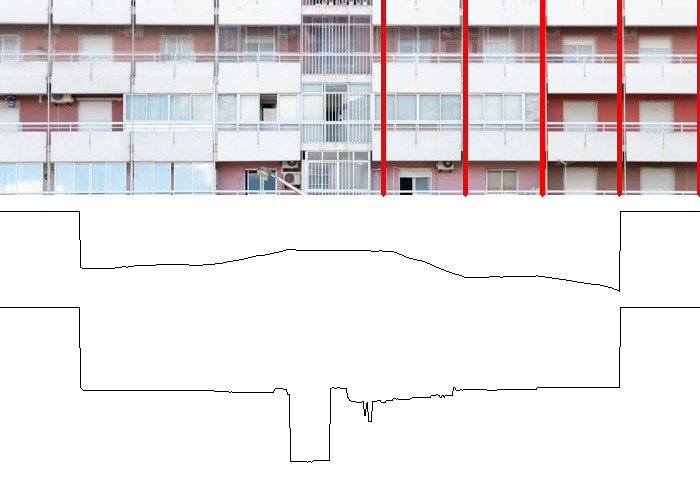
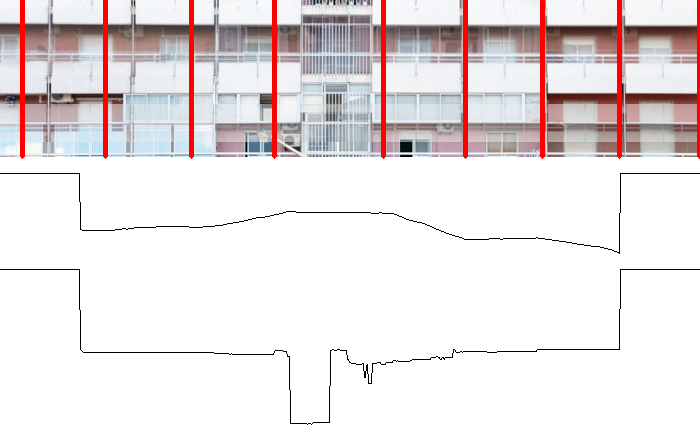
fix many bugs in Test6

diff --git a/Test6/main.cpp b/Test6/main.cpp
@@ -637,7 +637,7 @@ float findNextVerticalSplit(const cv::Mat_<float>& S_max, const cv::Mat_<float>&
 	return S;
 }
 
-void findVerticalSplits(const cv::Mat_<float>& S_max, const cv::Mat_<float>& h_max, int y, int h, float tau_max, int dir, vector<vector<int>>& y_set) {
+void findVerticalSplits(const cv::Mat_<float>& S_max, const cv::Mat_<float>& h_max, int y, int h, float tau_max, int dir, const pair<int, int>& y_range, vector<int>& y_set) {
 	while (y >= 0 && y < S_max.rows) {
 		int next_y;
 		float S = findAdjacentVerticalSplit(S_max, h_max, y, h, next_y);
@@ -646,42 +646,25 @@ void findVerticalSplits(const cv::Mat_<float>& S_max, const cv::Mat_<float>& h_m
 
 		if (S >= tau_max * 0.75f) {
 			if (dir == -1) {
-				y_set.front().insert(y_set.front().begin(), next_y);
+				y_set.insert(y_set.begin(), next_y);
 			}
 			else {
-				y_set.back().push_back(next_y);
+				y_set.push_back(next_y);
 			}
 			//y = next_y + h * dir;
 			y = next_y + h_max(next_y, 0) * dir;
 		}
 		else {
 			if (dir == -1) {
-				y_set.front().insert(y_set.front().begin(), y);
+				y_set.insert(y_set.begin(), y);
 			}
 			else {
-				y_set.back().push_back(y);
+				y_set.push_back(y);
 			}
 
 			cout << " --> not good" << endl;
 
-			S = findNextVerticalSplit(S_max, h_max, y, dir, h * 0.3, next_y);
-			if (S >= tau_max * 0.75f) {
-				if (dir == -1) {
-					y_set.insert(y_set.begin(), vector<int>());
-					y_set.front().push_back(next_y);
-					y_set.front().push_back(y);
-				}
-				else {
-					y_set.push_back(vector<int>());
-					y_set.back().push_back(y);
-					y_set.back().push_back(next_y);
-				}
-				y = next_y + h_max(next_y, 0) * dir;
-				h = h_max(next_y, 0);
-			}
-			else {
-				break;
-			}
+			break;
 		}
 	}
 
@@ -746,7 +729,7 @@ float findNextHorizontalSplit(const cv::Mat_<float>& S_max, const cv::Mat_<float
 	return S;
 }
 
-void findHorizontalSplits(const cv::Mat_<float>& S_max, const cv::Mat_<float>& w_max, int x, int w, float tau_max, int dir, vector<vector<int>>& x_set) {
+void findHorizontalSplits(const cv::Mat_<float>& S_max, const cv::Mat_<float>& w_max, int x, int w, float tau_max, int dir, const pair<int, int>& x_range, vector<int>& x_set) {
 	while (x >= 0 && x < S_max.cols) {
 		int next_x;
 		float S = findAdjacentHorizontalSplit(S_max, w_max, x, w, next_x);
@@ -755,46 +738,65 @@ void findHorizontalSplits(const cv::Mat_<float>& S_max, const cv::Mat_<float>& w
 
 		if (S >= tau_max * 0.75f) {
 			if (dir == -1) {
-				x_set.front().insert(x_set.front().begin(), next_x);
+				x_set.insert(x_set.begin(), next_x);
 			}
 			else {
-				x_set.back().push_back(next_x);
+				x_set.push_back(next_x);
 			}
 			//x = next_x + w * dir;
 			x = next_x + w_max(0, next_x) * dir;
 		}
 		else {
 			if (dir == -1) {
-				x_set.front().insert(x_set.front().begin(), x);
+				x_set.insert(x_set.begin(), x);
 			}
 			else {
-				x_set.back().push_back(x);
+				x_set.push_back(x);
 			}
 
 			cout << " --> not good" << endl;
 
-			S = findNextHorizontalSplit(S_max, w_max, x, dir, w * 0.3, next_x);
-			if (S >= tau_max * 0.75f) {
-				if (dir == -1) {
-					x_set.insert(x_set.begin(), vector<int>());
-					x_set.front().push_back(next_x);
-					x_set.front().push_back(x);
-				}
-				else {
-					x_set.push_back(vector<int>());
-					x_set.back().push_back(x);
-					x_set.back().push_back(next_x);
-				}
-				x = next_x + w_max(0, next_x) * dir;
-				w = w_max(0, next_x);
-			}
-			else {
-				break;
-			}
+			break;
 		}
 	}
 
 	cout << "Terminated." << endl;
+}
+
+void verticalSplitSub(const cv::Mat_<float>& SV_max, const cv::Mat_<float>& h_max, const pair<int, int>& y_range, vector<vector<int>>& y_set) {
+	// don't split too small region
+	if (y_range.second - y_range.first < 30) return;
+
+	// find the maximum of SV_max(x)
+	float S = 0.0f;
+	int y = -1;
+	for (int r = y_range.first; r <= y_range.second; ++r) {
+		if (r - h_max(r, 0) < y_range.first || r + h_max(r, 0) > y_range.second) continue;
+
+		if (SV_max(r, 0) > S) {
+			y = r;
+			S = SV_max(r, 0);
+		}
+	}
+
+	if (y == -1) return;
+
+	vector<int> y_set_sub;
+	y_set_sub.push_back(y);
+
+	cout << "y: " << y << ", S: " << S << ", h: " << h_max(y, 0) << endl;
+
+	// check splits
+	findVerticalSplits(SV_max, h_max, y - h_max(y, 0), h_max(y, 0), S, -1, y_range, y_set_sub);
+	findVerticalSplits(SV_max, h_max, y + h_max(y, 0), h_max(y, 0), S, 1, y_range, y_set_sub);
+
+	// recursively subdivide the upper remained region
+	verticalSplitSub(SV_max, h_max, make_pair(y_range.first, y_set_sub[0]), y_set);
+
+	y_set.push_back(y_set_sub);
+
+	// recursively subdivide the lower remained region
+	verticalSplitSub(SV_max, h_max, make_pair(y_set_sub.back(), y_range.second), y_set);
 }
 
 void verticalSplit(const cv::Mat& img, cv::Mat_<float>& SV_max, cv::Mat_<float>& h_max, vector<vector<int>>& y_set, cv::Mat& IF, const pair<int, int>& h_range) {
@@ -845,39 +847,49 @@ void verticalSplit(const cv::Mat& img, cv::Mat_<float>& SV_max, cv::Mat_<float>&
 	}
 	outputIF(IF, "IF1.png");
 
-	// find the maximum of SV_max(y)
-	float S = 0.0f;
-	int y;
-	for (int r = 0; r < SV_max.rows; ++r) {
-		if (SV_max(r, 0) > S) {
-			y = r;
-			S = SV_max(r, 0);
-		}
-	}
-
-	y_set.push_back(vector<int>(1, y));
-
-	cout << "y: " << y << ", S: " << S << ", h: " << h_max(y, 0) << endl;
-
-	outputSVMaxAndHMax(img, SV_max, h_max, "SV_max_h_max.png");
-
-	// check splits
-	findVerticalSplits(SV_max, h_max, y - h_max(y, 0), h_max(y, 0), S, -1, y_set);
-	findVerticalSplits(SV_max, h_max, y + h_max(y, 0), h_max(y, 0), S, 1, y_set);
-
-	cout << "DEbug!!!!!!!!!!!!!!" << endl;
-	for (int i = 0; i < y_set.size(); ++i) {
-		for (int j = 0; j < y_set[i].size(); ++j) {
-			cout << y_set[i][j] << ", ";
-		}
-	}
-	cout << endl;
+	verticalSplitSub(SV_max, h_max, make_pair(0, img.rows - 1), y_set);
 
 	//sort(y_set.begin(), y_set.end());
 	vshrinkIF(IF, y_set, h_max);
 
 	// visualize S_max_V(y) and h_max(y)
 	outputFacadeStructureV(img, SV_max, h_max, y_set, "result.png");
+}
+
+void horizontalSplitSub(const cv::Mat_<float>& SH_max, const cv::Mat_<float>& w_max, const pair<int, int>& x_range, vector<vector<int>>& x_set) {
+	// don't split too small region
+	if (x_range.second - x_range.first < 30) return;
+
+	// find the maximum of SH_max(x)
+	float S = 0.0f;
+	int x = -1;
+	for (int c = x_range.first; c <= x_range.second; ++c) {
+		if (c - w_max(0, c) < x_range.first || c + w_max(0, c) > x_range.second) continue;
+
+		if (SH_max(0, c) > S) {
+			x = c;
+			S = SH_max(0, c);
+		}
+	}
+
+	if (x == -1) return;
+
+	vector<int> x_set_sub;
+	x_set_sub.push_back(x);
+
+	cout << "x: " << x << ", S: " << S << ", w: " << w_max(0, x) << endl;
+
+	// check splits
+	findHorizontalSplits(SH_max, w_max, x - w_max(0, x), w_max(0, x), S, -1, x_range, x_set_sub);
+	findHorizontalSplits(SH_max, w_max, x + w_max(0, x), w_max(0, x), S, 1, x_range, x_set_sub);
+
+	// recursively subdivide the left remained region
+	horizontalSplitSub(SH_max, w_max, make_pair(x_range.first, x_set_sub[0]), x_set);
+
+	x_set.push_back(x_set_sub);
+
+	// recursively subdivide the right remained region
+	horizontalSplitSub(SH_max, w_max, make_pair(x_set_sub.back(), x_range.second), x_set);
 }
 
 void horizontalSplit(const cv::Mat& img, cv::Mat_<float>& SH_max, cv::Mat_<float>& w_max, vector<vector<int>>& x_set, const pair<int, int>& w_range) {
@@ -930,23 +942,7 @@ void horizontalSplit(const cv::Mat& img, cv::Mat_<float>& SH_max, cv::Mat_<float
 	}
 	outputIF(IF, "IF11.png");
 
-	// find the maximum of SH_max(x)
-	float S = 0.0f;
-	int x;
-	for (int c = 0; c < SH_max.cols; ++c) {
-		if (SH_max(0, c) > S) {
-			x = c;
-			S = SH_max(0, c);
-		}
-	}
-
-	x_set.push_back(vector<int>(1, x));
-
-	cout << "x: " << x << ", S: " << S << ", w: " << w_max(0, x) << endl;
-
-	// check splits
-	findHorizontalSplits(SH_max, w_max, x - w_max(0, x), w_max(0, x), S, -1, x_set);
-	findHorizontalSplits(SH_max, w_max, x + w_max(0, x), w_max(0, x), S, 1, x_set);
+	horizontalSplitSub(SH_max, w_max, make_pair(0, img.cols - 1), x_set);
 
 	//sort(x_set.begin(), x_set.end());
 	hshrinkIF(IF, x_set, w_max);
